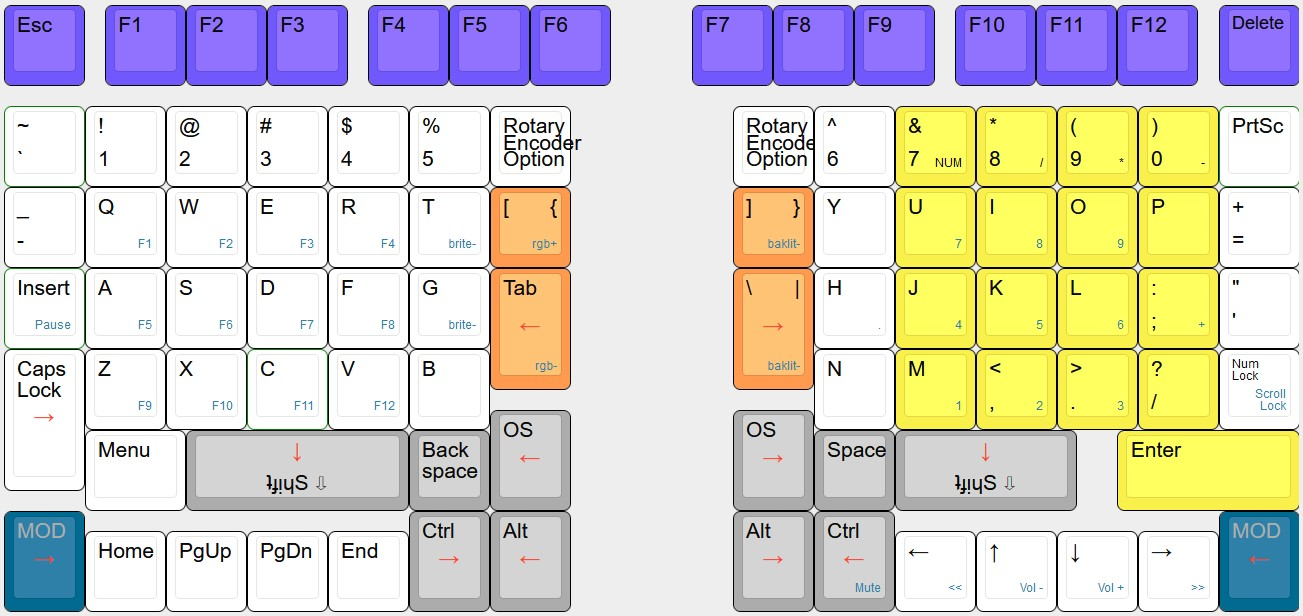
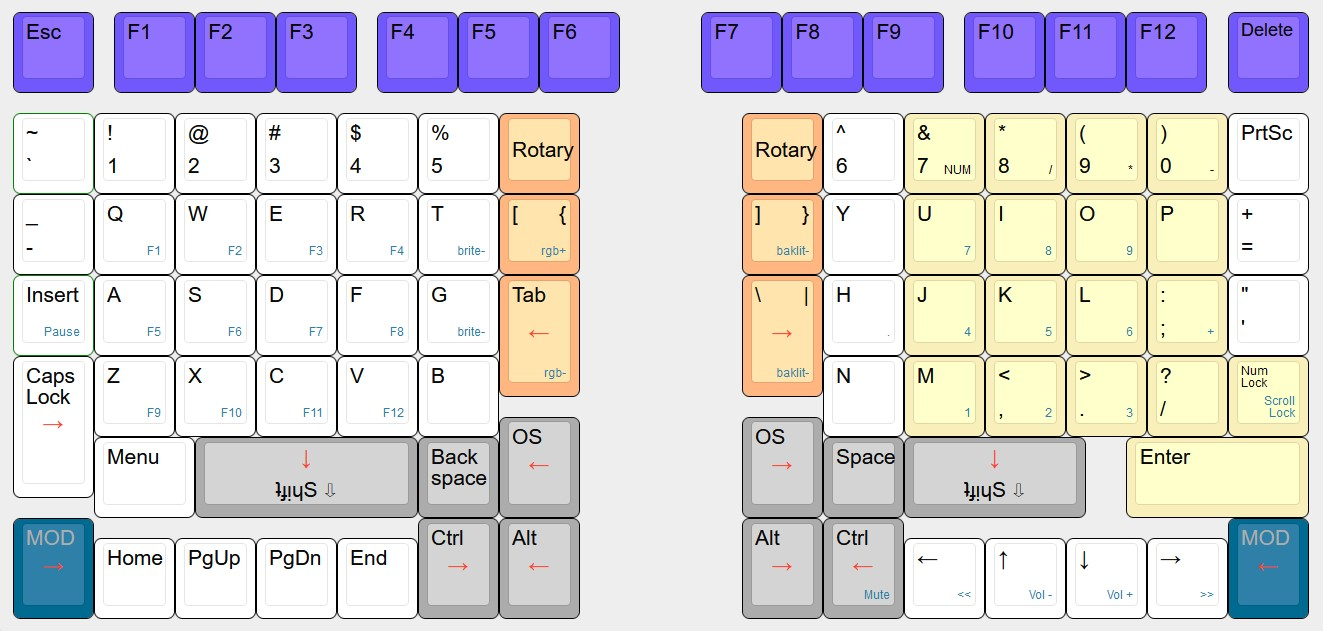
Updated layout.jpg

diff --git a/readme.md b/readme.md
@@ -25,11 +25,11 @@ This is the most keycap-compatible, split, ortholinear, tenkey-less keyboard. Sp
 |Manuform/Dactyl-Manuform|6|3.5u
 |Maltron/Dacyl/Kenesis/Ergodox|6-8|4.5u
 
-Unlike other large thumb cluster designs that waste valuable space by pushing the cluster away from resting thumb position or building the cluster on a convex plane, all thumb keys are within 1u radius of resting position. The thumbs naturally rest on either Space or Backspace, with Shift, `Ctrl`, `Alt` and `OS` nearby. There are two thumb rows; `Space`, `Backspace`, and both `Shift` keys have a higher profile on the upper thumb row, with the help of stem raisers to distinguish thumb location by feel. Using SA keycaps for these 4 keys is another option to get the profile difference, but we like keycap compatibility :grinning:
+Unlike other large thumb cluster designs that waste valuable space by pushing the cluster away from resting thumb position or building the cluster on a curve, all thumb keys (colored grey) are within 1u radius of resting position. The thumbs naturally rest on either Space or Backspace, with Shift, `Ctrl`, `Alt` and `OS` nearby. There are two thumb rows; `Space`, `Backspace`, and both `Shift` keys have a higher profile on the upper thumb row, with the help of stem raisers to distinguish thumb location by feel. Using SA keycaps for these 4 keys is another option to get the profile difference, but we like keycap compatibility :grinning:
 
 
 ### Comfy Thumbs = Comfy Pinkies
-Your pinkies have been doing way more wok than they should. That's why modifiers have moved to the thumb cluster. Adding to that, the Index fingers have a new inner column for `Tab`, `\ `, `-`, `=`,  `[` and `]`.
+Your pinkies have been doing way more wok than they should. That's why modifiers have moved to the thumb cluster. Adding to that, `-` and `=` are in more favorable positions, and the index fingers have a new inner column (colored orange) with two optional rotary encoders.
 
 ### Still want layers?
 The bottom left and right Fn keys can be used to access QMK keyboard layers. The NumLock key can be used to turn on a tenkey layer. In the end, this is QMK - just explore and decide what you like!
